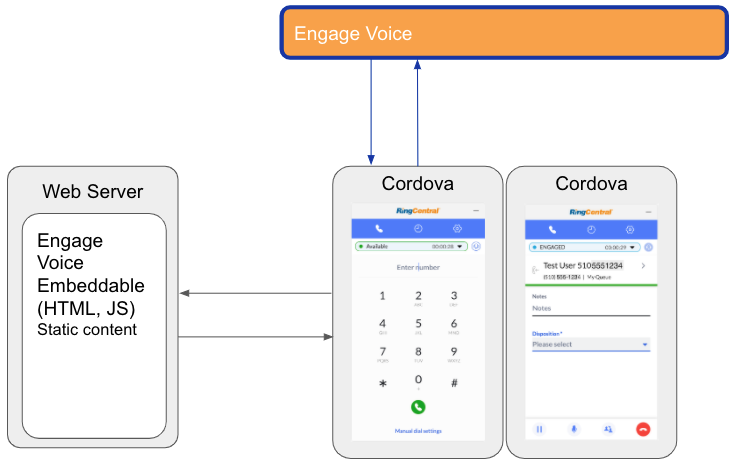
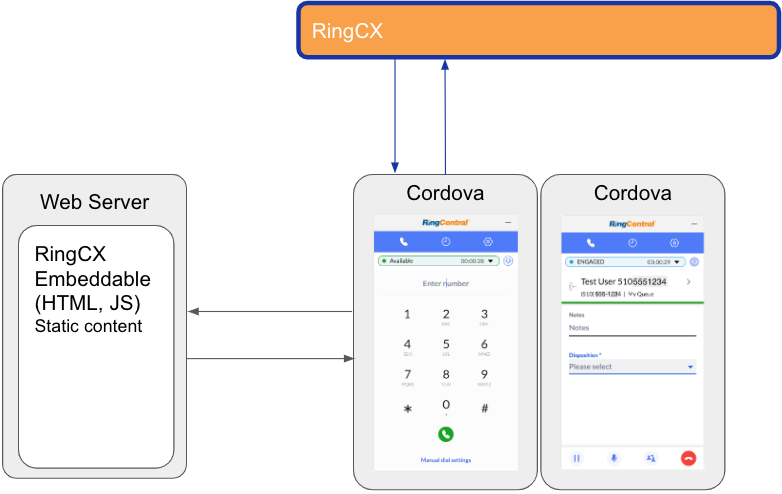
Update SDK and embeddable to RingCX

diff --git a/docs/sdks/index.md b/docs/sdks/index.md
@@ -1,10 +1,10 @@
-# Engage Voice SDKs
+# RingCX SDKs
 
-The following SDKs provide developers with libraries that make interfacing with Engage Voice APIs easier in your language of choice.
+The following SDKs provide developers with libraries that make interfacing with RingCX APIs easier in your language of choice.
 
 ## Client SDKs
 
-Client SDKs provide a native language interface to Engage Voice REST APIs
+Client SDKs provide a native language interface to RingCX REST APIs
 
 * [JavaScript Client SDK](https://github.com/ringcentral/engage-voice-js)
 * [Python Client SDK](https://github.com/ringcentral/engage-voice-python)
@@ -13,33 +13,33 @@ Client SDKs provide a native language interface to Engage Voice REST APIs
 
 ## Mobile Framework
 
-The following Mobile Framework was built to show how a developer could build an agent experience on a mobile device to integrate with Engage Voice. This example utilizes the [Engage Voice Embeddable](https://github.com/ringcentral/engage-voice-embeddable) within Cordova, a mobile development framework. Since the Embeddable uses standard web technologies, this makes Cordova a great fit for packaging the Embeddable for distribution across iOS and Android app stores. A separate Web Server is expected to host the static web components including the HTML page and JavaScript code. That JavaScript code then communicates to the Engage Voice platform in the cloud.
+The following Mobile Framework was built to show how a developer could build an agent experience on a mobile device to integrate with RingCX. This example utilizes the [RingCX Embeddable](https://github.com/ringcentral/engage-voice-embeddable) within Cordova, a mobile development framework. Since the Embeddable uses standard web technologies, this makes Cordova a great fit for packaging the Embeddable for distribution across iOS and Android app stores. A separate Web Server is expected to host the static web components including the HTML page and JavaScript code. That JavaScript code then communicates to the RingCX platform in the cloud.
 
 <img class="img-fluid" width="732" src="../images/sdk-mobile-framework-diagram.png">
 
-To keep things local to a single development environment, Ngrok is used to tunnel web requests (to the Embeddable page) to a local web server. This way, your Embeddable's interface is presented by Cordova. We also deploy Cordova on a local simulator that can communicate to your local web server (running Embeddable) which then communicates to Engage Voice. Now you can customize your app to use Engage Voice services either by creating a different web technology experience via you web server or by customizing the Embeddable to integrate with other applications like CRMs.
+To keep things local to a single development environment, Ngrok is used to tunnel web requests (to the Embeddable page) to a local web server. This way, your Embeddable's interface is presented by Cordova. We also deploy Cordova on a local simulator that can communicate to your local web server (running Embeddable) which then communicates to RingCX. Now you can customize your app to use RingCX services either by creating a different web technology experience via you web server or by customizing the Embeddable to integrate with other applications like CRMs.
 
-* [Engage Voice Embeddable for Mobile](https://github.com/ringcentral/ringcentral-engage-voice-embeddable-mobile)
+* [RingCX Embeddable for Mobile](https://github.com/ringcentral/ringcentral-engage-voice-embeddable-mobile)
 
 ## Community SDKs
 
-There are currently a set of unofficial client SDK libraries built the developer community. The list below includes SDK wrappers for Engage Voice Platform APIs.
+There are currently a set of unofficial client SDK libraries built the developer community. The list below includes SDK wrappers for RingCX Platform APIs.
 
-If you’ve built your own Engage Voice library, plugin, or open source app, please [get in touch](mailto:devsupport@ringcentral.com) and we’ll add it to this list.
+If you’ve built your own RingCX library, plugin, or open source app, please [get in touch](mailto:devsupport@ringcentral.com) and we’ll add it to this list.
 
 Some of these integrations may be incomplete. Feedback and bugs should be directed to their representative authors.
 
 ### Node JS
 
-* [engagevoice-sdk-wrapper](https://github.com/pacovu/engagevoice-sdk-wrapper-node) - A simple SDK wrapper to login RingCentral platform (using Password Flow authentication) and exchange for an Engage Voice access token.
+* [engagevoice-sdk-wrapper](https://github.com/pacovu/engagevoice-sdk-wrapper-node) - A simple SDK wrapper to login RingCentral platform (using Password Flow authentication) and exchange for an RingCX access token.
 
 ### PHP
 
-* [engagevoice-sdk-wrapper](https://github.com/pacovu/engagevoice-sdk-wrapper-php) - A simple SDK wrapper to login RingCentral platform (using Password Flow authentication) and exchange for an Engage Voice access token.
+* [engagevoice-sdk-wrapper](https://github.com/pacovu/engagevoice-sdk-wrapper-php) - A simple SDK wrapper to login RingCentral platform (using Password Flow authentication) and exchange for an RingCX access token.
 
 ### Python
 
-* [engagevoice-sdk-wrapper](https://github.com/pacovu/engagevoice-sdk-wrapper-python) - A simple SDK wrapper to login RingCentral platform (using Password Flow authentication) and exchange for an Engage Voice access token.
+* [engagevoice-sdk-wrapper](https://github.com/pacovu/engagevoice-sdk-wrapper-python) - A simple SDK wrapper to login RingCentral platform (using Password Flow authentication) and exchange for an RingCX access token.
 
 
 !!! warning "Disclaimer"

diff --git a/docs/embeddable/get-started.md b/docs/embeddable/get-started.md
@@ -1,8 +1,8 @@
-# Engage Voice Embeddable
+# RingCX Embeddable
 
 ## Introduction
 
-Engage Voice Embeddable is an out-of-the-box embeddable web application that help developers to integrate RingCentral Engage Voice services to their web applications with few code.
+RingCX Embeddable is an out-of-the-box embeddable web application that help developers to integrate RingCentral RingCX services to their web applications with a few lines of code.
 
 ## Visit Online
 
